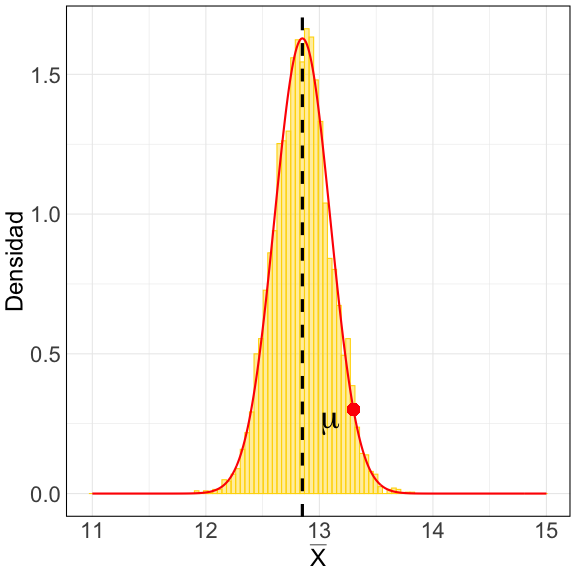
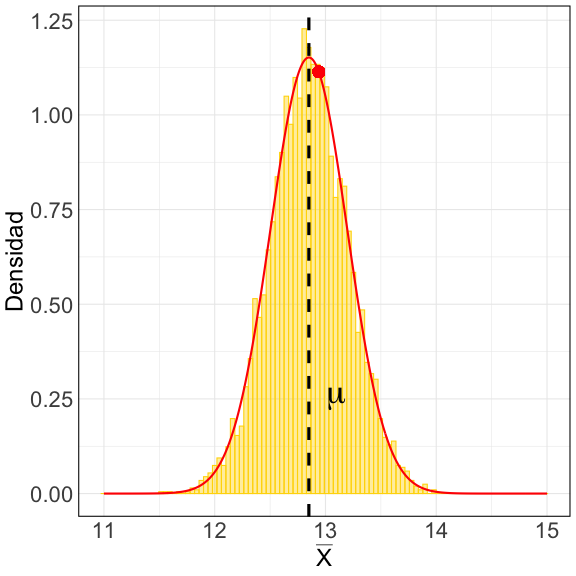
Update

diff --git a/slides/class_11/class_11.html b/slides/class_11/class_11.html
@@ -63,16 +63,16 @@ class: inverse, center, middle
 ## # A tibble: 100 × 3
 ##    year   educ   age
 ##    &lt;fct&gt; &lt;dbl&gt; &lt;dbl&gt;
-##  1 2010     14    61
-##  2 2010     12    21
-##  3 2016     12    73
-##  4 2014     13    21
-##  5 1987     15    47
-##  6 1993     14    27
-##  7 1991     13    39
-##  8 2014     15    67
-##  9 2012     14    42
-## 10 2014     15    22
+##  1 1998     13    89
+##  2 2010     12    55
+##  3 1982      6    70
+##  4 1998     17    38
+##  5 2016     11    59
+##  6 2006     16    37
+##  7 1998     12    39
+##  8 1993     17    44
+##  9 1987     14    26
+## 10 1996     12    21
 ## # ℹ 90 more rows
 ```
 ]
@@ -133,18 +133,25 @@ En resumen:
 .pull-left[
 
 ```
-##   year educ age
-## 1 2010   14  61
-## 2 2010   12  21
-## 3 2016   12  73
-## 4 2014   13  21
-## 5 1987   15  47
-## 6 1993   14  27
+## # A tibble: 100 × 3
+##    year   educ   age
+##    &lt;fct&gt; &lt;dbl&gt; &lt;dbl&gt;
+##  1 1998     13    89
+##  2 2010     12    55
+##  3 1982      6    70
+##  4 1998     17    38
+##  5 2016     11    59
+##  6 2006     16    37
+##  7 1998     12    39
+##  8 1993     17    44
+##  9 1987     14    26
+## 10 1996     12    21
+## # ℹ 90 more rows
 ```
 
 ```
 ## mu_hat 
-##   13.3
+##  12.94
 ```
 ]
 
@@ -153,7 +160,7 @@ En resumen:
 
 - La socióloga decide *estimar* el promedio de años de escolaridad en USA ( `\(\mu\)` ) usando la media muestral como *estimador*.
 
-- `\(\hat{\mu} =  \frac{\sum \text{educ}_{i}}{n} = 12.93\)` es nuestro *estimado* 
+- `\(\hat{\mu} =  \frac{\sum \text{educ}_{i}}{n} =\)`  12.94 es nuestro *estimado* 
 
 - ¿Que tanto podemos confiar en nuestro .bold[estimado] basado en esta muestra en particular?
 
@@ -211,9 +218,9 @@ dado `\(n\)`, generados por el mismo proceso (o a partir de la misma población)
 
 - La variable `\(\text{educ}\)` en la población de USA distribuye Normal con `\(\mu=12.85\)` y `\(\sigma=3.464\)`.
 
-- Tomamos 5000 muestras alesatorias de tamaño 200 a partir de esta población: `\(m_{200_i}\)`
+- Tomamos 5000 muestras alesatorias de tamaño 100 a partir de esta población: `\(m_{100_i}\)`
 
-- En cada muestra calculamos la media muestral de la variable `\(X\)`: `\(\bar{X}_{200_i}\)`   
+- En cada muestra calculamos la media muestral de la variable `\(X\)`: `\(\bar{X}_{100_i}\)`   
 
 --
 
@@ -228,8 +235,8 @@ educ_poblacion &lt;- tibble(educ = rnorm(n=10^6, mean=12.85, sd=3.464))
 resultados &lt;- tibble(estimado = numeric(5000))
 
 for (i in 1:5000) {
-  # tomamos 5000 muestras de tamaño 200
-  muestra_i &lt;- sample_n(educ_poblacion, size=200, replace = TRUE)
+  # tomamos 5000 muestras de tamaño 100
+  muestra_i &lt;- sample_n(educ_poblacion, size=100, replace = TRUE)
   
   # en cada muestra calculamos media y guardamos resultado
   resultados$estimado[i] &lt;- mean(muestra_i$educ)
@@ -247,21 +254,21 @@ La colección de estimados se ve así:
 ## # A tibble: 5,000 × 1
 ##    estimado
 ##       &lt;dbl&gt;
-##  1     13.1
-##  2     13.0
-##  3     12.6
-##  4     12.9
-##  5     12.9
-##  6     12.8
-##  7     13.4
-##  8     12.4
-##  9     12.6
-## 10     12.5
-## 11     13.0
-## 12     13.0
+##  1     13.3
+##  2     13.1
+##  3     13.2
+##  4     12.7
+##  5     12.4
+##  6     12.6
+##  7     12.6
+##  8     13.5
+##  9     13.6
+## 10     12.2
+## 11     13.2
+## 12     12.9
 ## 13     12.8
-## 14     13.0
-## 15     13.3
+## 14     13.4
+## 15     12.6
 ## # ℹ 4,985 more rows
 ```
 ]
@@ -293,21 +300,21 @@ La colección de estimados se ve así:
 ## # A tibble: 5,000 × 1
 ##    estimado
 ##       &lt;dbl&gt;
-##  1     13.1
-##  2     13.0
-##  3     12.6
-##  4     12.9
-##  5     12.9
-##  6     12.8
-##  7     13.4
-##  8     12.4
-##  9     12.6
-## 10     12.5
-## 11     13.0
-## 12     13.0
+##  1     13.3
+##  2     13.1
+##  3     13.2
+##  4     12.7
+##  5     12.4
+##  6     12.6
+##  7     12.6
+##  8     13.5
+##  9     13.6
+## 10     12.2
+## 11     13.2
+## 12     12.9
 ## 13     12.8
-## 14     13.0
-## 15     13.3
+## 14     13.4
+## 15     12.6
 ## # ℹ 4,985 more rows
 ```
 ]
@@ -327,7 +334,7 @@ La colección de estimados se ve así:
 &lt;br&gt;
 - En nuestro caso:
 
-  `$$\bar{X}_{200} \sim \text{Normal}\bigg(12.85, \frac{3.464}{\sqrt{200}}\bigg)$$`
+  `$$\bar{X}_{100} \sim \text{Normal}\bigg(12.85, \frac{3.464}{\sqrt{100}}\bigg)$$`
     
 ]
 
@@ -344,7 +351,7 @@ La colección de estimados se ve así:
 
 &lt;br&gt;
 
-  `$$\bar{X}_{200} \sim \text{Normal}\bigg(12.85, \frac{3.464}{\sqrt{200}}\bigg)$$`
+  `$$\bar{X}_{100} \sim \text{Normal}\bigg(12.85, \frac{3.464}{\sqrt{100}}\bigg)$$`
 
 ]
 
@@ -362,7 +369,7 @@ La colección de estimados se ve así:
 
 &lt;br&gt;
 
-  `$$\bar{X}_{200} \sim \text{Normal}\bigg(4, \frac{3.464}{\sqrt{200}}\bigg)$$`
+  `$$\bar{X}_{100} \sim \text{Normal}\bigg(12.85, \frac{3.464}{\sqrt{100}}\bigg)$$`
 
 &lt;br&gt;
 
@@ -392,7 +399,7 @@ class: inverse, center, middle
 Por ejemplo:
 
 
-`\(\bar{X}_{200}\)` =  13.3
+`\(\bar{X}_{100}\)` =  12.94
 
 &lt;br&gt;
 
